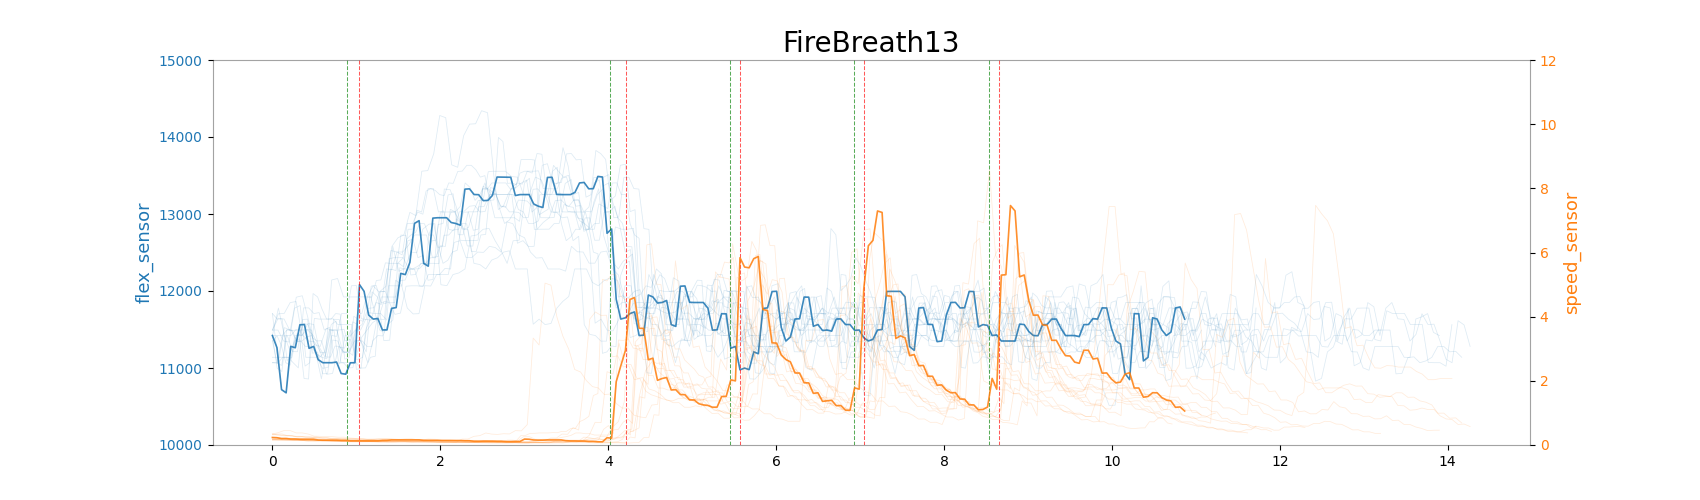
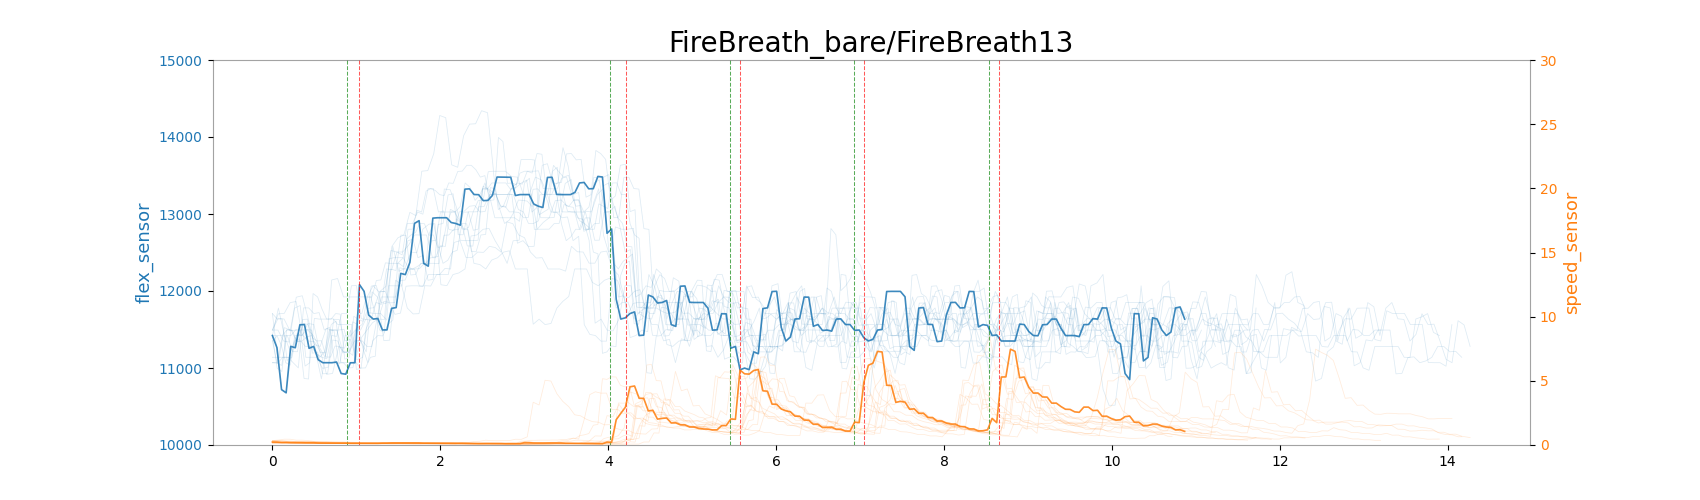
new

diff --git a/Breathing_detection.py b/Breathing_detection.py
@@ -20,7 +20,7 @@ class Proper(object):
 
 
 ##################################
-Folder_name = 'BoxBreath_jacket/'
+Folder_name = 'FireBreath_bare/'
 ##################################
 
 #Read Files
@@ -134,7 +134,7 @@ for i in range(0,len(csv_files)):
 
 ##Plot Single Figure
 #################### 10 11
-num = 10
+num = 9
 selected_object = globals()['File'+str(num)]
 ####################
 
@@ -159,7 +159,7 @@ ax1.set_ylim(10000, 15000)
 #Plot Speed
 ax2.set_ylabel('speed_sensor', color='tab:orange', fontsize = 13)
 ax2.tick_params(axis='y', labelcolor='tab:orange')
-ax2.set_ylim(0, 20)
+ax2.set_ylim(0, 30)
 
 
 #Action / Record Vertical Line
@@ -177,7 +177,7 @@ ax2.spines[:].set_alpha(0.2)
 
 Figure_name = (csv_files[num].split('/')[-1]).split('.')[0]
 
-plt.title(Figure_name,  fontsize = 20)
+plt.title(Folder_name+Figure_name,  fontsize = 20)
 plt.savefig(Folder_name+Figure_name+'.png')
 plt.show()
 
